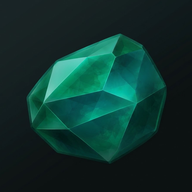
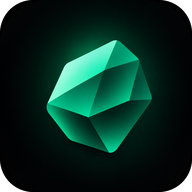
icone novo, tirei os botoes de cima q sobrou pra navegação de mobile ficar full embaixo e corrigi o background

diff --git a/script.js b/script.js
@@ -18,7 +18,7 @@ var reduce=matchMedia("(prefers-reduced-motion: reduce)").matches;
 
 /* tema */
 var root=document.documentElement;
-function setTheme(t){root.setAttribute("data-theme",t);$("theme").textContent=t==="jade"?"🫧 Safira":"🌲 Jade";save("jv.theme2",t)}
+function setTheme(t){root.setAttribute("data-theme",t);$("theme").textContent=t==="jade"?"🫧 Safira":"🌲 Jade";save("jv.theme2",t);applyBg()}
 setTheme(load("jv.theme2","jade")==="safira"?"safira":"jade");
 $("theme").onclick=function(){setTheme(root.getAttribute("data-theme")==="jade"?"safira":"jade");buildSettings()};
 $("b-theme").onclick=$("theme").onclick;
@@ -31,6 +31,7 @@ function view(){var h=location.hash.slice(1);if(VIEWS.indexOf(h)<0)h="painel";
 function toPainel(){location.hash="painel"}
 $("exit").onclick=toPainel;$("fback").onclick=toPainel;
 $("b-exit").onclick=toPainel;
+$("b-back").onclick=toPainel;
 addEventListener("keydown",function(e){if(e.key==="Escape"&&(location.hash==="#relaxar"||location.hash==="#foco"))toPainel()});
 addEventListener("hashchange",view);view();
 
@@ -187,11 +188,17 @@ function applyBg(){var g="linear-gradient(rgba(6,18,12,.55),rgba(6,18,12,.74))";
 /*
 function applyBg(){if(BG)root.style.setProperty("--jbg",'url("'+BG+'")');else root.style.removeProperty("--jbg")}
 */
-
+/*
 function applyBg(){
   if(BG_J)root.style.setProperty("--bg-jade",'url("'+BG_J+'")');else root.style.removeProperty("--bg-jade");
   if(BG_S){root.style.setProperty("--bg-safira",'url("'+BG_S+'")');root.style.setProperty("--has-safira","block")}
   else{root.style.removeProperty("--bg-safira");root.style.setProperty("--has-safira","none")}
+}*/
+
+function applyBg(){
+  var s=root.getAttribute("data-theme")==="safira",img=s?BG_S:BG_J,el=$("bgimg");
+  if(img){el.style.backgroundImage=(s?"linear-gradient(rgba(0,2,42,.55),rgba(0,2,42,.78))":"linear-gradient(rgba(6,18,12,.55),rgba(6,18,12,.74))")+',url("'+img+'")';el.style.display="block"}
+  else{el.style.backgroundImage="";el.style.display=""}
 }
 
 /* ajustes */

diff --git a/style.css b/style.css
@@ -153,7 +153,12 @@ input[type=number]{font:inherit;background:var(--panel);color:var(--ink);border:
   .bn.mid i{font-size:30px}
   .bn.mid{min-height:62px}
   #b-exit{display:none}
-  .v-foco #bnav{display:none}
+  /*.v-foco #bnav{display:none}*/
+  .v-relaxar #exit,.v-foco .back{display:none}
+  #b-back{display:none}
+  .v-foco #bnav{grid-template-columns:1fr}
+  .v-foco #bnav .bn:not(#b-back){display:none}
+  .v-foco #b-back{display:flex}
   .v-relaxar #bnav{grid-template-columns:1fr}
   .v-relaxar #bnav .bn:not(#b-exit){display:none}
   .v-relaxar #b-exit{display:flex}

diff --git a/index.html b/index.html
@@ -119,6 +119,7 @@
   <a class="bn" id="b-grafo" href="https://ivgraph.com/app/" target="_blank" rel="noopener"><i>🕸</i>Grafo</a>
   <button class="bn" id="b-ajustes" type="button" aria-selected="false"><i>⚙</i>Ajustes</button>
   <button class="bn" id="b-exit" type="button"><i>🍃</i>Sair do relaxar</button>
+  <button class="bn" id="b-back" type="button"><i>💎</i>Voltar ao painel</button>
 </nav>
 
 <script src="script.js"></script>
